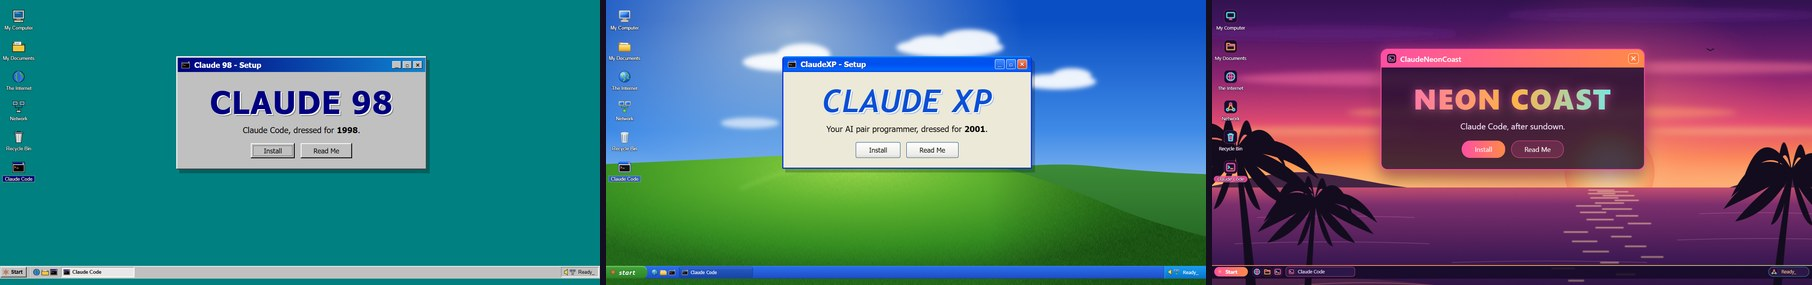
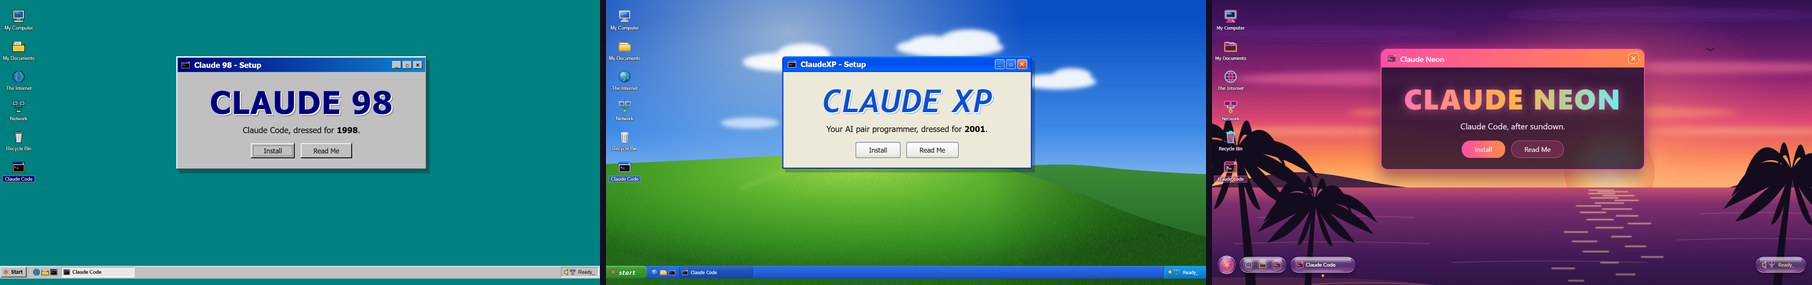
Rename the Neon Coast style to Claude Neon

diff --git a/hooks/lookneon.ts b/hooks/lookneon.ts
@@ -21,7 +21,7 @@ export const chromeOf = (scheme: DeskScheme): string => SCHEMES[scheme].s1
 const build = (key: DeskScheme) => {
   const s = SCHEMES[key]
   return makeColors({
-    label: `ClaudeEras Neon Coast - ${s.label}`,
+    label: `ClaudeEras Claude Neon - ${s.label}`,
     roles: { accent: s.accent, danger: '#b00030', success: '#007a4a', warning: '#a86400', pro: '#7a2fd6' },
     light: {
       gray: {
@@ -67,7 +67,7 @@ export const lookFor = (s: DeskSettings): ThemeSetArgs => ({
   // Every wallpaper is a live scene drawn by the mod. The glass takes the app's
   // own panel color (dark in dark mode): frosted enough that text reads over the
   // bright sun, thin enough that the sunset still glows through.
-  backdrop: { scene: 'neoncoast', glass: { blur: 8, opacity: 0.45 } },
+  backdrop: { scene: 'claudeneon', glass: { blur: 8, opacity: 0.45 } },
 })
 
 // ---------- the desktop scene: neon icons, a glass taskbar, the coast ----------

diff --git a/hooks/register.tsx b/hooks/register.tsx
@@ -113,7 +113,7 @@ export const register: Register = on => {
     await applyLook($, stored)
 
     await $.command.register({ name: 'display', description: `${NAME}: open Display Properties (style, wallpaper, color scheme, effects)` })
-    await $.command.register({ name: 'style', description: `${NAME}: switch to the next style (Windows 98, XP, Neon Coast)` })
+    await $.command.register({ name: 'style', description: `${NAME}: switch to the next style (Windows 98, XP, Claude Neon)` })
     await $.command.register({ name: 'sysmon', description: `${NAME}: open the System Monitor window` })
     await $.command.register({ name: 'startband', description: `${NAME}: show or hide the Start band above the prompt` })
     await $.command.register({ name: 'startmenu', description: `${NAME}: toggle the Start menu above the prompt` })

diff --git a/hooks/looks.ts b/hooks/looks.ts
@@ -98,7 +98,7 @@ export const STYLES: Record<DeskStyle, Look> = {
   },
   neon: {
     ...lneon,
-    label: 'Neon Coast',
+    label: 'Claude Neon',
     // Square 1998 window frames, rounded early-2000s buttons, start button and
     // close box, all lit in neon colors.
     chrome: {

diff --git a/README.md b/README.md
@@ -1,18 +1,18 @@
 <p align="center">
-  <img src="assets/banner.jpg" alt="ClaudeEras: the Windows 98, XP and Neon Coast styles side by side" width="900">
+  <img src="assets/banner.jpg" alt="ClaudeEras: the Windows 98, XP and Claude Neon styles side by side" width="900">
 </p>
 
 <h1 align="center">🕰 ClaudeEras</h1>
 
 <p align="center"><strong>THREE DESKTOP ERAS, ONE MOD.</strong></p>
 
-**ClaudeEras** combines [Claude 98](https://github.com/weihaoc168/Claude98), [ClaudeXP](https://github.com/weihaoc168/ClaudeXP) and ClaudeNeonCoast into one Claude Code mod with a style switch. Each style brings its own wallpaper, icons, taskbar, window chrome and color schemes:
+**ClaudeEras** combines [Claude 98](https://github.com/weihaoc168/Claude98), [ClaudeXP](https://github.com/weihaoc168/ClaudeXP) and Claude Neon into one Claude Code mod with a style switch. Each style brings its own wallpaper, icons, taskbar, window chrome and color schemes:
 
 | Style | Desktop | Windows |
 | --- | --- | --- |
 | **Windows 98** | Classic plain teal, pixel icons, grey taskbar and Start button | Square silver windows, black frames |
 | **XP** | A rolling green meadow, glossy icons, blue taskbar with a green start button | Cream windows, rounded blue frames, red close box |
-| **Neon Coast** | A softly realistic pink, purple and orange sunset over the sea with palms, neon retro icons, a floating liquid-glass taskbar | Night-purple windows, hot-pink frames |
+| **Claude Neon** | A softly realistic pink, purple and orange sunset over the sea with palms, neon retro icons, a floating liquid-glass taskbar | Night-purple windows, hot-pink frames |
 
 ## ⚡ Install
 
@@ -22,12 +22,12 @@ claude plugin install claudeeras --marketplace weihaoc168/ClaudeEras
 
 At the prompt of a terminal session: `/plugin install claudeeras --marketplace weihaoc168/ClaudeEras`. In the desktop app: click **+** next to the prompt box → **Plugins** → **Add marketplace** with `weihaoc168/ClaudeEras` → **Add plugin**.
 
-Use it instead of the single-style mods, not alongside them: uninstall `claude98`, `claudexp` or `claudeneoncoast` first.
+Use it instead of the single-style mods, not alongside them: uninstall `claude98`, `claudexp` or `claudeneon` first.
 
 ## 🎛 Switching styles
 
 - **Display Properties** (`/display`) → **Background** → **Style**, then **OK** or **Apply**. The preview shows the style before you apply it.
-- Or type `/style` to step through Windows 98 → XP → Neon Coast.
+- Or type `/style` to step through Windows 98 → XP → Claude Neon.
 
 Switching a style resets the wallpaper to that style's own default; your scheme and effects carry over.
 
